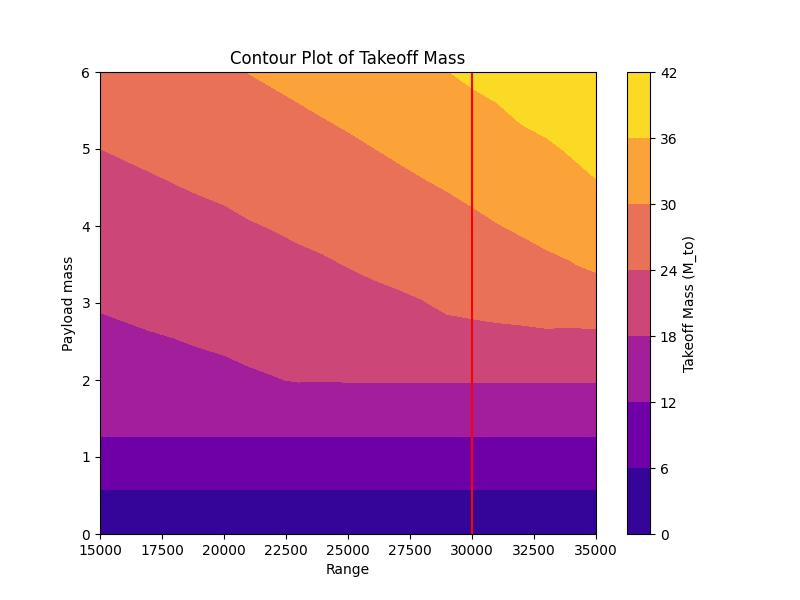
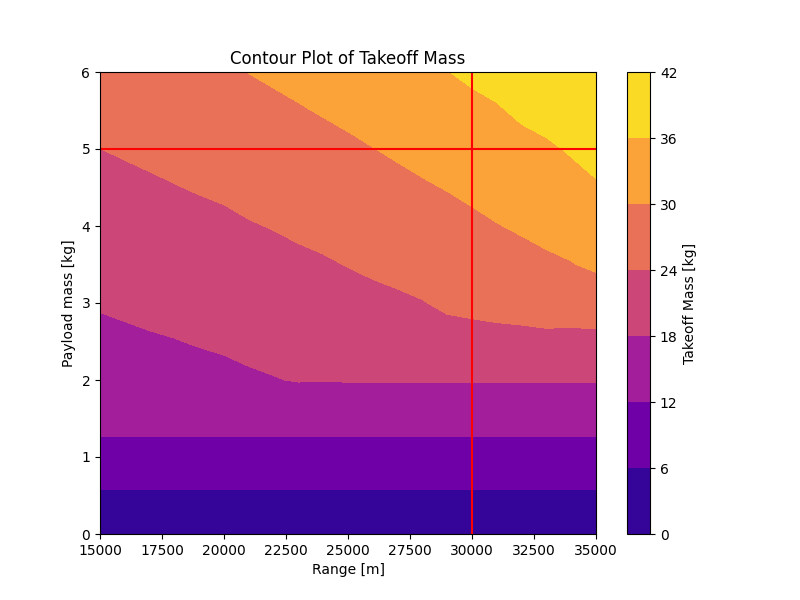
Changed the plots slightly

diff --git a/PreliminaryDesign/performance_analysis.py b/PreliminaryDesign/performance_analysis.py
@@ -6,6 +6,9 @@ from mission_profile import SwarmProfile, UAVProfile
 # ~~~ AR, Range diagram ~~~
 
 def AR_range_diagram(AR_range: list, range_range: list, mass_calculation: callable, inputs: dict):
+    '''
+    Creates a contour plot with the aspect ratio and the range on the axes and the take-off mass as a result
+    '''
     mass_range = []
     grid = []
     for AR in AR_range:
@@ -31,13 +34,16 @@ def AR_range_diagram(AR_range: list, range_range: list, mass_calculation: callab
     plt.colorbar(cp, label='Takeoff Mass (M_to)')
     plt.vlines(30000, AR_range[0], AR_range[-1], label="Required Range", color="red")
 
-    plt.xlabel('Range')
-    plt.ylabel('Aspect Ratio (AR)')
+    plt.xlabel('Range [m]')
+    plt.ylabel('Aspect Ratio [-]')
     plt.title('Contour Plot of Takeoff Mass')
     plt.savefig('PreliminaryDesign\Plots\AR_range.png')
     #plt.show()
 
 def cruise_speed_mass_diagram(V_range, inputs, mass_function):
+    '''
+    Plots the take-off mass as a function of cruise speed
+    '''
     mass_results = []
     for V in V_range:
         current_inputs = inputs.copy()
@@ -59,6 +65,9 @@ def cruise_speed_mass_diagram(V_range, inputs, mass_function):
     #plt.show()
 
 def payload_range_diagram(payload_range: list, range_range: list, mass_calculation: callable, inputs: dict):
+    '''
+    Creates a contour plot with the payload mass and the range on the axes and the take-off mass as a result  
+    '''
     mass_range = []
     grid = []
     for p in payload_range:
@@ -81,12 +90,12 @@ def payload_range_diagram(payload_range: list, range_range: list, mass_calculati
 
     plt.figure(figsize=(8, 6))
     cp = plt.contourf(X, Y, Z, cmap='plasma')
-    plt.colorbar(cp, label='Takeoff Mass (M_to)')
+    plt.colorbar(cp, label='Takeoff Mass [kg]')
     plt.vlines(30000, payload_range[0], payload_range[-1], label="Required Range", color="red")
     plt.hlines(5, range_range[0], range_range[-1], color='red', label='Required Payload')
 
-    plt.xlabel('Range')
-    plt.ylabel('Payload mass')
+    plt.xlabel('Range [m]')
+    plt.ylabel('Payload mass [kg]')
     plt.title('Contour Plot of Takeoff Mass')
     plt.savefig('PreliminaryDesign\Plots\payload_range.png')
     #plt.show()
@@ -134,9 +143,9 @@ def swarm_deployment_plot(V_range, l_range, inputs):
 
 
 if __name__ == '__main__':
-    # AR_range_diagram(np.arange(6, 13),np.arange(15000, 35001, 1000), integration_optimization, inputs)
+    AR_range_diagram(np.arange(6, 13),np.arange(15000, 35001, 1000), integration_optimization, inputs)
     # cruise_speed_mass_diagram(np.arange(int(50/3.6), int(150/3.6), 2), inputs, integration_optimization)
-    # payload_range_diagram(np.arange(0, 6.5, 0.5), np.arange(15000, 35001, 1000), integration_optimization, inputs)
+    payload_range_diagram(np.arange(0, 6.5, 0.5), np.arange(15000, 35001, 1000), integration_optimization, inputs)
     
     swarm_deployment_plot(np.arange(int(60/3.6), int(150/3.6), 5), np.arange(0, 6, 0.5), inputs)
 
